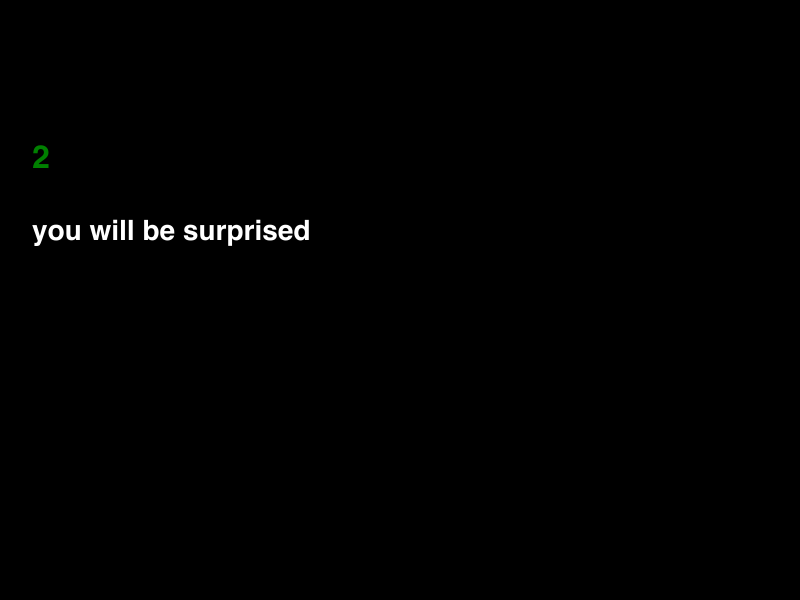
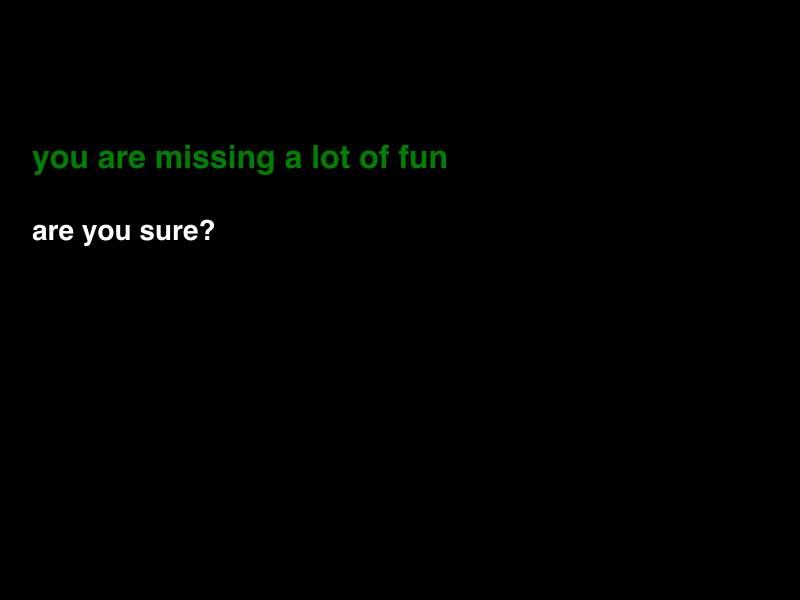
aloja

Changed region(s): [[0.0312, 0.24, 0.5625, 0.3], [0.0312, 0.36, 0.4062, 0.42]]

diff --git a/routes/farhack/index.js b/routes/farhack/index.js
@@ -141,6 +141,7 @@ router.post("/", async (req, res) => {
         <meta name="fc:frame:button:1" content="now" />
         <meta name="fc:frame:button:2" content="2" />
         <meta name="fc:frame:button:3" content="3" />
+        <meta name="fc:frame:button:4" content="none" />
         </head>
       </html>
         `);
@@ -162,7 +163,7 @@ router.post("/", async (req, res) => {
         <meta name="fc:frame:button:1" content="now" />
         <meta name="fc:frame:button:2" content="2" />
         <meta name="fc:frame:button:3" content="3" />
-        <meta name="fc:frame:button:4" content="custom" />
+        <meta name="fc:frame:button:4" content="none" />
         </head>
       </html>
         `);
@@ -289,8 +290,8 @@ router.post("/second-frame", async (req, res) => {
       }
     }
 
-    imageCopy = "how many replies per day?";
-
+    imageCopy = "are you sure?";
+    let lastMessage = "you are missing a lot of fun";
     return res.status(200).send(`
       <!DOCTYPE html>
       <html>
@@ -301,16 +302,64 @@ router.post("/second-frame", async (req, res) => {
         <meta name="fc:frame" content="vNext">
         <meta name="fc:frame:image" content=${fullUrl}/farhack/image?text=${encodeURIComponent(
       imageCopy
-    )}>
-        <meta name="fc:frame:post_url" content="${fullUrl}/farhack/second-frame" />
-        <meta name="fc:frame:input:text" content="1 2 3 4 5 6 7 8 9" />
-        <meta name="fc:frame:button:1" content="submit" />
+    )}&userPrompt=${encodeURIComponent(lastMessage)}>
+        <meta name="fc:frame:post_url" content="${fullUrl}/farhack/third-frame" />
+        <meta name="fc:frame:button:1" content="give up" />
+        <meta name="fc:frame:button:2" content="back" />
         </head>
       </html>
         `);
   } catch (error) {
     console.log("there was an error here", error);
   }
+});
+
+router.post("/third-frame", async (req, res) => {
+  try {
+    let imageCopy;
+    const fullUrl = req.protocol + "://" + req.get("host");
+    if (req.body.untrustedData.buttonIndex == 1) {
+      let gameOver = "game over";
+      imageCopy = "you wont get more replies from me";
+      return res.status(200).send(`
+      <!DOCTYPE html>
+      <html>
+      <head>
+        <title>${botName}</title>
+        <meta property="og:title" content="anky mint">
+        <meta property="og:image" content=${fullUrl}/farhack/image?text=}>
+        <meta name="fc:frame" content="vNext">
+        <meta name="fc:frame:image" content=${fullUrl}/farhack/image?text=${encodeURIComponent(
+        imageCopy
+      )}&userPrompt=${encodeURIComponent(gameOver)}>
+        <meta name="fc:frame:post_url" content="${fullUrl}/farhack/third-frame" />
+        </head>
+      </html>
+        `);
+    } else {
+      imageCopy = "how many replies do you want to receive daily?";
+      console.log("IN HEREEEE");
+      return res.status(200).send(`
+        <!DOCTYPE html>
+        <html>
+        <head>
+          <title>${botName}</title>
+          <meta property="og:title" content="farhack gtp">
+          <meta property="og:image" content=${fullUrl}/farhack/image?text=}>
+          <meta name="fc:frame" content="vNext">
+          <meta name="fc:frame:image" content=${fullUrl}/farhack/image?text=${encodeURIComponent(
+        imageCopy
+      )}&userPrompt=${encodeURIComponent("welcome to farhack gtp")}>
+          <meta name="fc:frame:post_url" content="${fullUrl}/farhack/second-frame" />
+          <meta name="fc:frame:button:1" content="now" />
+          <meta name="fc:frame:button:2" content="2" />
+          <meta name="fc:frame:button:3" content="3" />
+          <meta name="fc:frame:button:3" content="none" />
+          </head>
+        </html>
+          `);
+    }
+  } catch (error) {}
 });
 
 ///////////// BOT ON A FRAME  ////////////////////////
